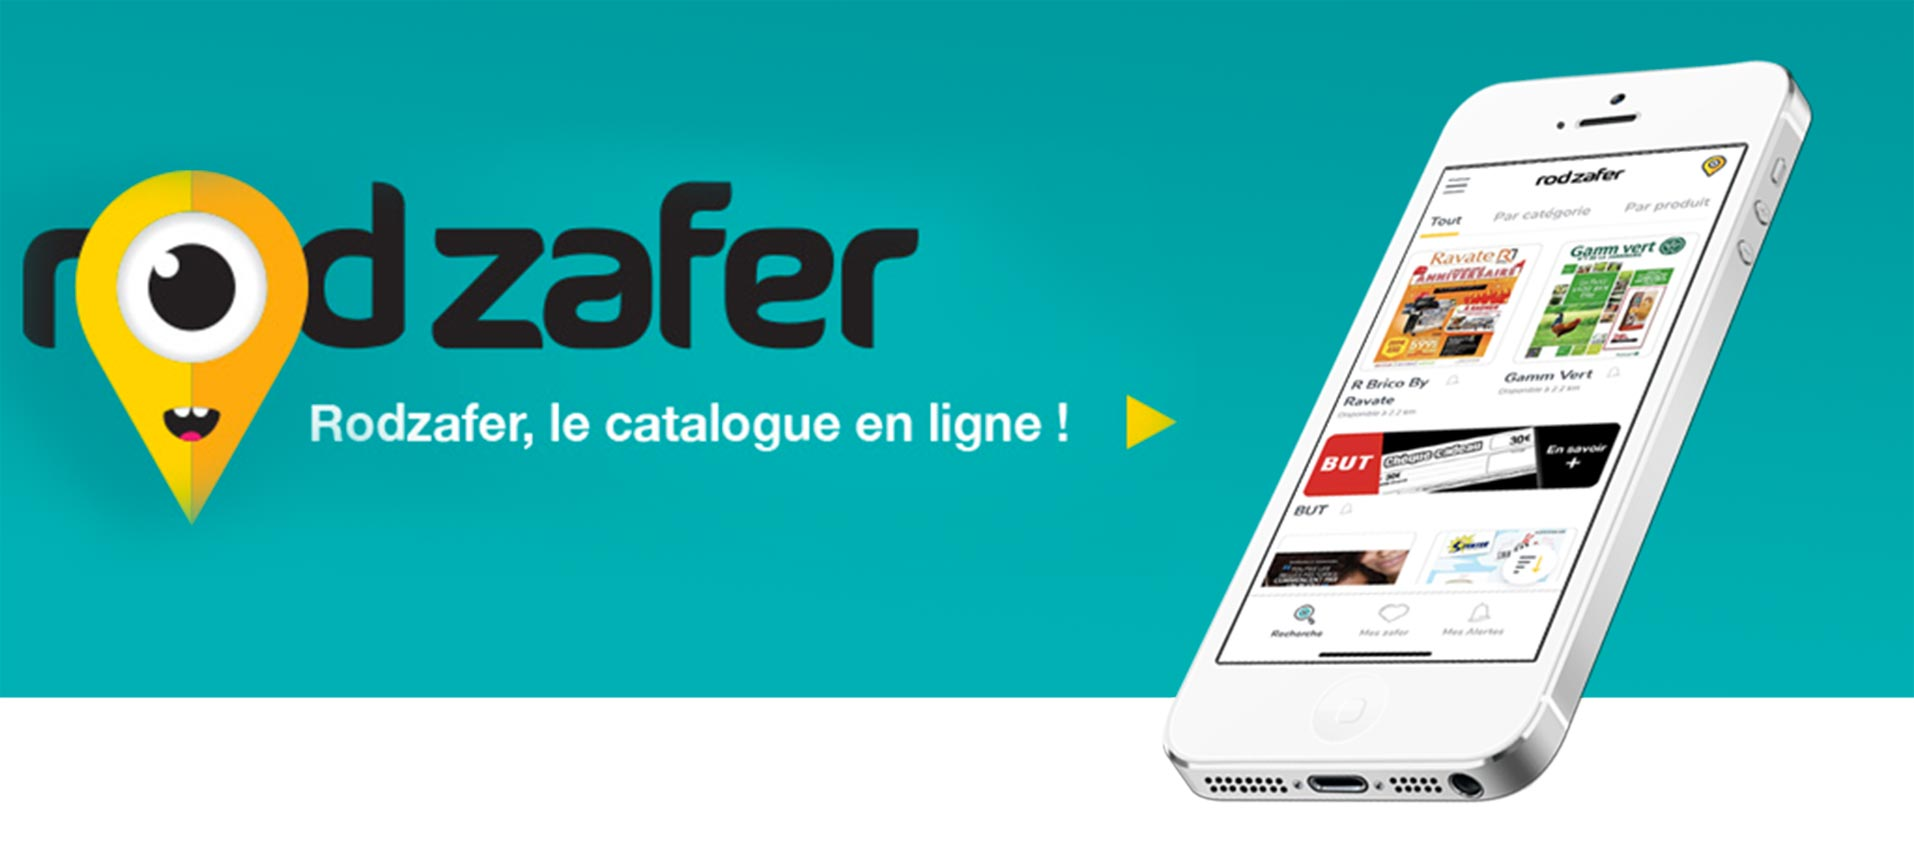
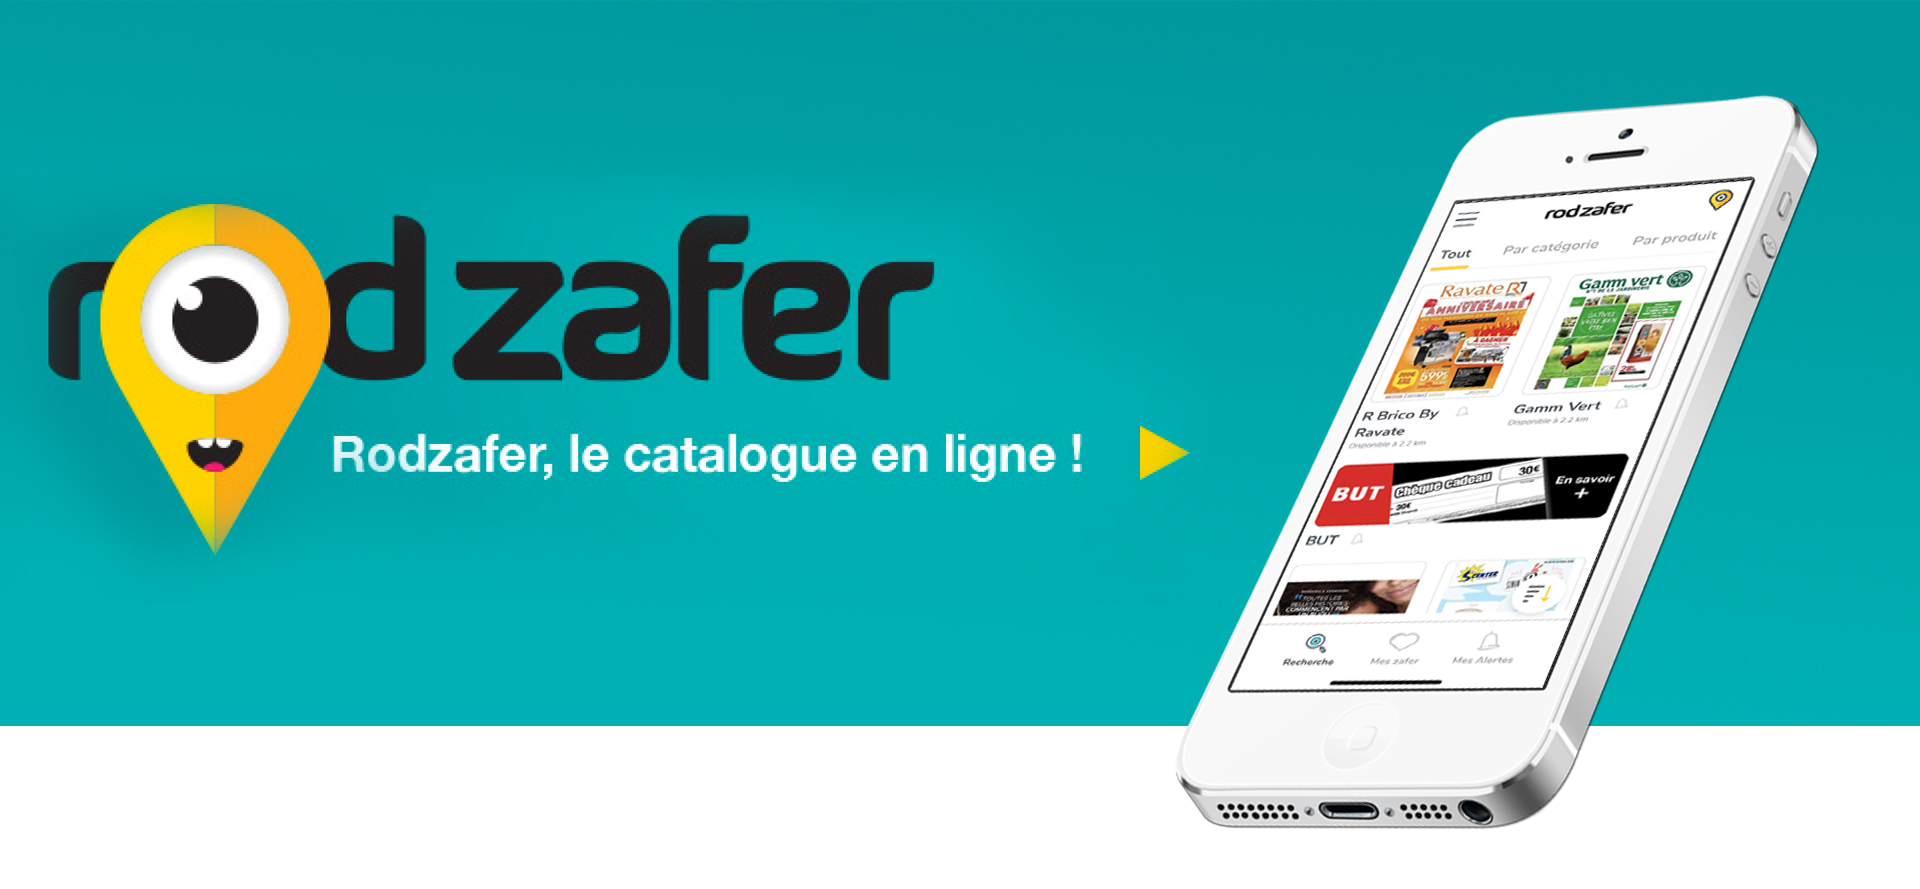
modif suite landing page et css

Changed region(s): [[0.0, 0.0625, 1.0, 0.9375], [0.0, 0.1875, 0.6165, 0.625]]

diff --git a/css/style.css b/css/style.css
@@ -1,4 +1,4 @@
-body{font-family:Arial!important;}
+body{font-family:Arial!important;color:#000;}
 *{ box-sizing:border-box;}
 .top .navbar{border:0;border-radius: 0;margin-bottom:0;min-height:94px;background:#fff;}
 .top #myNavbar{margin-top:25px;}
@@ -9,10 +9,10 @@ body{font-family:Arial!important;}
 .container-fluid{padding-right:0;padding-left:0;}
 .content_rod{position:relative;margin-bottom:100px;}
 .content_rod .image_header{width:100%;height:auto;}
-.content_down_app{position:absolute;bottom:0;width:100%;text-align:center;}
+.content_down_app{position:absolute;bottom:0;width:100%;text-align:left;padding-left:290px;}
 .content_down_app a{display:inline-block;margin:0 10px;}
 .content_down_app a img{max-width:190px;height:auto;}
-.titre{text-align:center;background: url("../images/back_titre.jpg") no-repeat center bottom;padding-bottom:20px;font-size:25px;text-transform:uppercase;margin:0 0 50px 0;line-height: normal; letter-spacing:3px;}
+.titre{text-align:center;background: url("../images/back_titre.jpg") no-repeat center bottom;padding-bottom:20px;font-size:22px;text-transform:uppercase;margin:0 0 50px 0;line-height: normal; letter-spacing:3px;}
 #offre_exclusives h3{text-align:center;margin:0 0 50px 0;padding:0;font-size:18px;}
 .logo_partenaire{margin:0 0 20px 0;padding:0;display:block;}
 .list_offre ul{list-style-type:none;text-align:center ;margin:0;}
@@ -31,16 +31,18 @@ section{margin-bottom:50px;border:0!important; outline: none!important;}
 .content_acceder{width:100%;margin:60px 0 0 0;padding:0;text-align:center;}
 .content_acceder a{display: inline-table;background:#ffd204;color:#fff;text-transform:uppercase;font-size:38px;padding:5px 40px;font-weight:normal;}
 .content_acceder a:hover{text-decoration:none;}
-#telecharger_appli{width:100%;padding:60px 0 190px 0;background:url(../images/back_appli.png) no-repeat left top;background-size: cover;}
-.content_down_appli{margin-top:30px;}
-#telecharger_appli .titre{background:none;padding:0;font-size:25px;}
+#telecharger_appli{width:100%;padding:60px 0 190px 0;background:url(../images/back_appli_v2.png) no-repeat left top;background-size: cover;}
+.content_down_appli{margin-top:30px;position:relative;}
+.content_oeil{position:absolute;top:0;right:0;}
+.content_oeil img{max-width:180px;}
+#telecharger_appli .titre{background:none;padding:0;font-size:22px;font-weight:bold;position:relative; z-index:100;}
 .content_down_app_telecharger_appli{width:100%;margin:0;padding:0;text-align:center;}
-.content_down_app_telecharger_appli a{display:inline-block;margin:0 10px;}
+.content_down_app_telecharger_appli a{display:inline-block;margin:0 10px;position:relative; z-index:100;}
 .content_down_app_telecharger_appli a img{width:100%;height:auto;max-width:150px;border:1px solid #fff;}
 .content_inner_pourquoi{text-align:center;}
 .nav>li>a{padding:5px 20px;}
-#contact{width:100%;background:url(../images/back_content_contact.png) no-repeat left center; background-size:cover;color:#fff;padding-bottom:30px;}
-#contact h2{text-align:center;font-size:25px;text-transform:uppercase; letter-spacing:3px;}
+#contact{width:100%;background:url(../images/back_content_contact.png) no-repeat left center; background-size:cover;color:#fff;padding-bottom:0;}
+#contact h2{text-align:center;font-size:22px;text-transform:uppercase; letter-spacing:3px;}
 #contact .col-md-6{padding-left:0;padding-right:0;}
 .content_contact{background:url(../images/pinceau_contact.png) no-repeat left top;padding-left:60px;}
 .inner_content_contact h3{margin:0;padding:0;font-size:18px;text-transform:uppercase;}
@@ -49,19 +51,19 @@ section{margin-bottom:50px;border:0!important; outline: none!important;}
 .inner_content_contact_right h3{margin:0;padding:0;font-size:18px;text-transform:uppercase;}
 .inner_content_contact_right p{font-size:27px;font-weight:normal;}
 .content_contact_top{padding:0 20px 0 0;border-bottom:3px solid #ffd204;margin:0 0 50px 0;display:table;}
-#Suivez_nous h2{text-align:center;font-size:25px;text-transform:uppercase;margin:0 0 50px 0;line-height: normal; letter-spacing:3px;}
+#Suivez_nous h2{text-align:center;font-size:22px;text-transform:uppercase;margin:0 0 50px 0;line-height: normal; letter-spacing:3px;font-weight:bold;}
 #Suivez_nous .list_reseaux_socio{text-align:center;}
 #Suivez_nous .list_reseaux_socio a{display:inline-block;margin:0 20px;}
 #foot_top{background:#22afa9;padding:30px 0;margin:0;}
 #foot_top .list_lien_footer{text-align:center;}
 #foot_top .list_lien_footer ul{list-style-type:none;margin:0;}
 #foot_top .list_lien_footer ul li{display:inline-block;margin:0 30px 0 30px;}
-#foot_top .list_lien_footer ul li a{text-transform:uppercase;font-size:14px;color:#000;}
+#foot_top .list_lien_footer ul li a{text-transform:uppercase;font-size:14px;color:#000;font-weight:bold;}
 #foot_bottom{background:#000;color:#fff;padding:10px 0;margin:0;}
-#foot_bottom p{margin:0;font-size:12px;text-transform:uppercase;text-align:center; line-height:none;}
+#foot_bottom p{margin:0;font-size:12px;text-transform:uppercase;text-align:center; line-height:none;font-weight:bold;}
 #foot_bottom p a{color:#fff;}
 .content_savoire_plus{text-align:center;}
-.content_savoire_plus a{display:inline-block;background:#ffd204;padding:5px 30px;color:#000;text-decoration:none;font-size:14px;text-transform:uppercase;font-weight:bold;}
+.content_savoire_plus a{display:inline-block;background:#ffd204;padding:5px 30px;color:#000;text-decoration:none;font-size:18px;text-transform:uppercase;font-weight:bold;}
 .bg_gris{background:#f6f6f6;padding:30px 0;}
 .owl-theme .owl-nav [class*=owl-]:hover{background:none;cursor:pointer;color:#000;border:0;}
 .owl-theme .owl-nav [class*=owl-]:focus{border:0;outline:none;}

diff --git a/page_accueil_road_zafer.html b/page_accueil_road_zafer.html
@@ -151,6 +151,7 @@
           </a>
         </div>
       </div>
+      <div class="content_oeil"><img src="images/image_oeil_rod.png"></div>
     </div>
     </div>
   </section>
